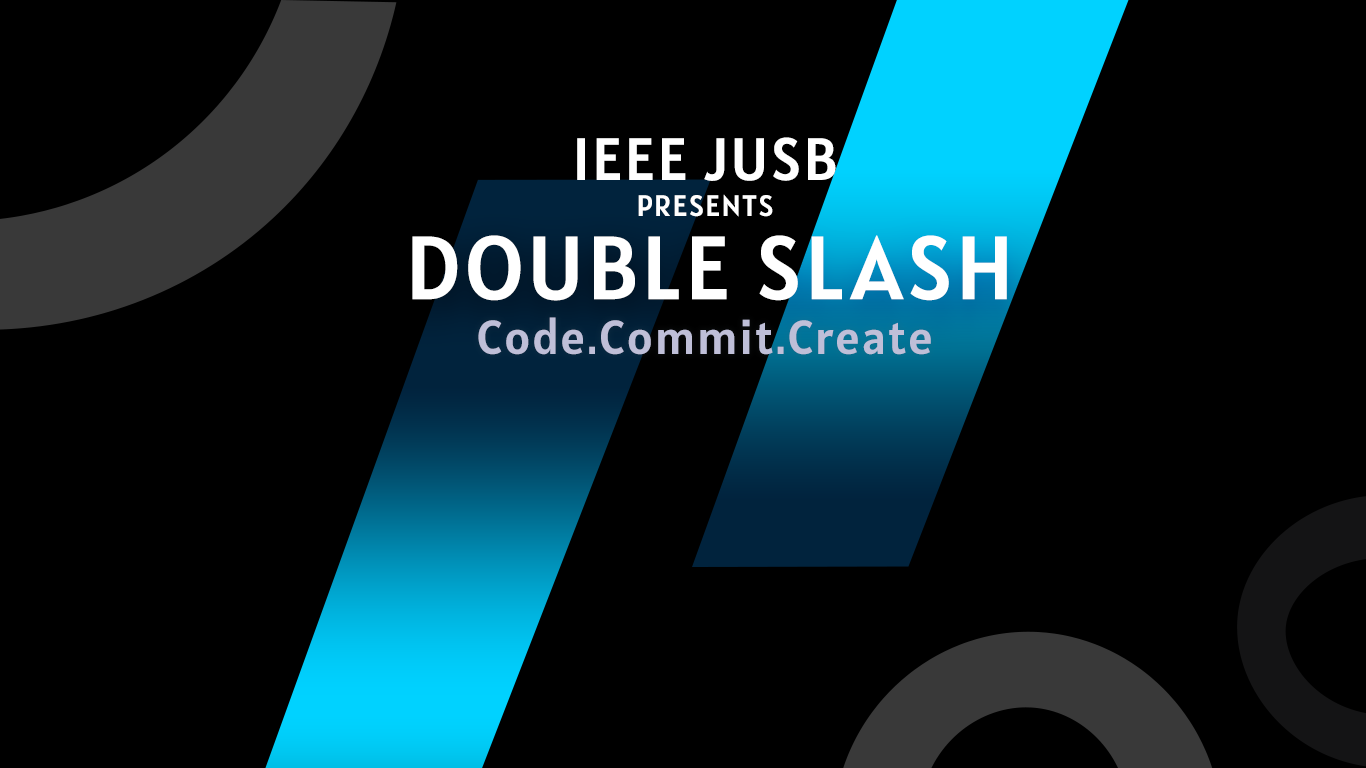
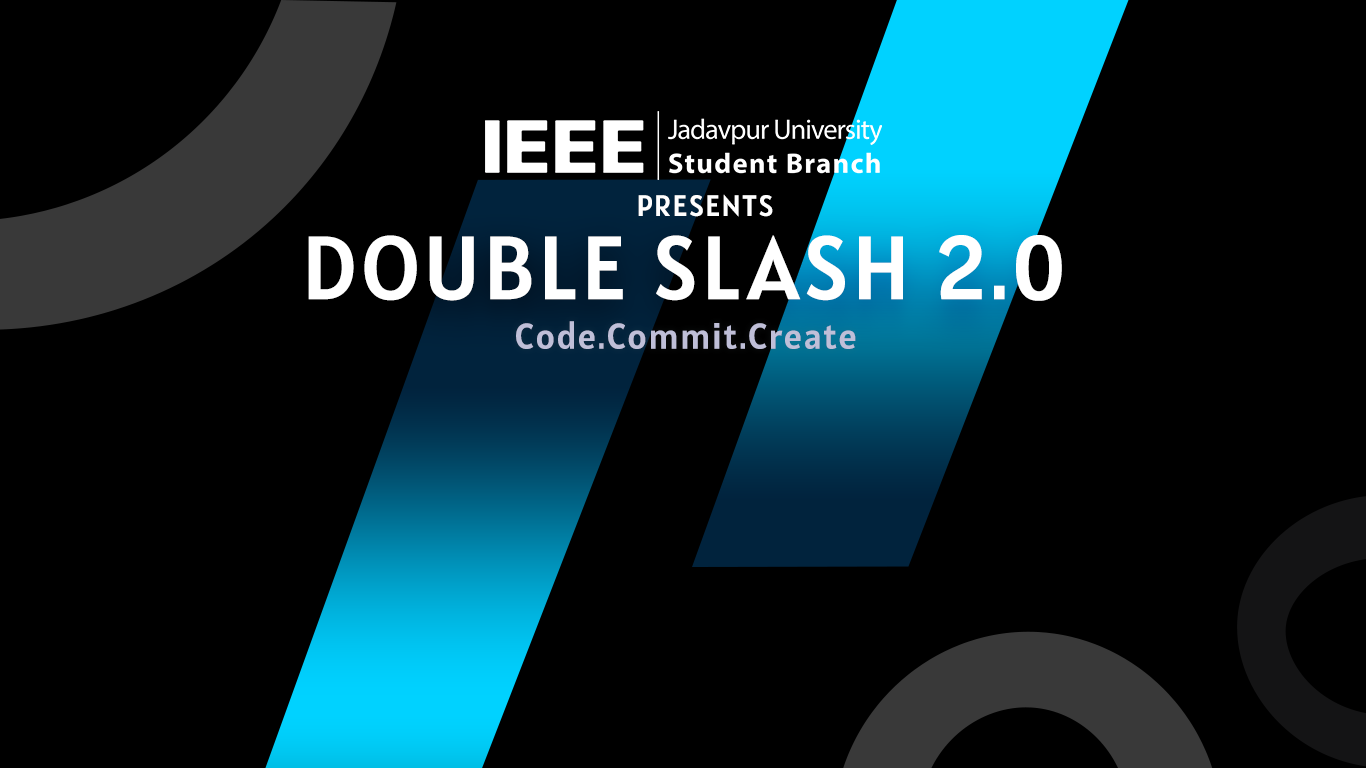
Made all necessary changes

Changed region(s): [[0.2152, 0.2812, 0.7994, 0.4688], [0.3382, 0.1562, 0.6457, 0.25]]

diff --git a/index.html b/index.html
@@ -562,7 +562,7 @@
                           aria-expanded="false" aria-controls="collapseOne1">
 
                           <h4>Registration Process</h4>
-                          <h5 class="name">DoubleSlash</h5>
+                          <h5 class="name">Double Slash 2.0</h5>
                         </div>
                       </div>
                       <div id="collapseOne" class="collapse show" aria-labelledby="headingOne" data-parent="#accordion">
@@ -591,7 +591,7 @@
                           aria-expanded="false" aria-controls="collapseTwo2">
 
                           <h4>Brain Storming Ideas</h4>
-                          <h5 class="name">DoubleSlash</h5>
+                          <h5 class="name">Double Slash 2.0</h5>
                         </div>
                       </div>
                       <div id="collapseOne1" class="collapse show" aria-labelledby="headingOne1"
@@ -623,7 +623,7 @@
                           aria-expanded="false" aria-controls="collapseTwo2">
 
                           <h4>Selection of Teams</h4>
-                          <h5 class="name">DoubleSlash</h5>
+                          <h5 class="name">Double Slash 2.0</h5>
                         </div>
                       </div>
                       <div id="collapseOne1" class="collapse show" aria-labelledby="headingOne1"
@@ -649,7 +649,7 @@
                           aria-expanded="false" aria-controls="collapseOne3">
 
                           <h4>Double Slash 2.0 Begins</h4>
-                          <h5 class="name">DoubleSlash</h5>
+                          <h5 class="name">Double Slash 2.0</h5>
                         </div>
                       </div>
                       <div id="collapseOne3" class="collapse show" aria-labelledby="headingOne3"
@@ -675,13 +675,13 @@
                       <div id="headingOne">
                         <div class="schedule-slot-time">
                           <span>Jan 22</span><br>
-                          Judging
+                          Presentation
                         </div>
                         <div class="collapsed card-header" data-toggle="collapse" data-target="#collapseOne4"
                           aria-expanded="false" aria-controls="collapseOne4">
 
                           <h4>Judging and Presentation of projects begins</h4>
-                          <h5 class="name">DoubleSlash</h5>
+                          <h5 class="name">Double Slash 2.0</h5>
                         </div>
                       </div>
                       <div id="collapseOne4" class="collapse show" aria-labelledby="headingOne"

diff --git a/assets/css/main.css b/assets/css/main.css
@@ -1087,7 +1087,7 @@ h1 {
 }
 
 .counter-section {
-  background: url(../img/background/LandingPage2.png) no-repeat center;
+  background: url(../img/background/stats.png) no-repeat center;
   background-size: auto auto;
   padding: 80px 0;
   background-size: cover;
@@ -1102,7 +1102,7 @@ h1 {
   bottom: 0;
   width: 100%;
   height: 100%;
-  background: rgba(0, 0, 0, 0.8);
+  background: rgba(0, 0, 0, 0.6);
 }
 
 .counter-section .counter {
@@ -2626,8 +2626,15 @@ div#clock {
   }
 
   #hero-area .contents .banner-btn {
-    margin-top: 40px;
+    margin-top: 70px;
   }
+  #hero-area .contents .banner-info {
+    margin-top: 10px;
+  }
+  #hero-area #count .count-wrapper {
+    margin-top: 70px;
+  }
+
   .about-text p {
     font-size: 16px !important ;
   }
